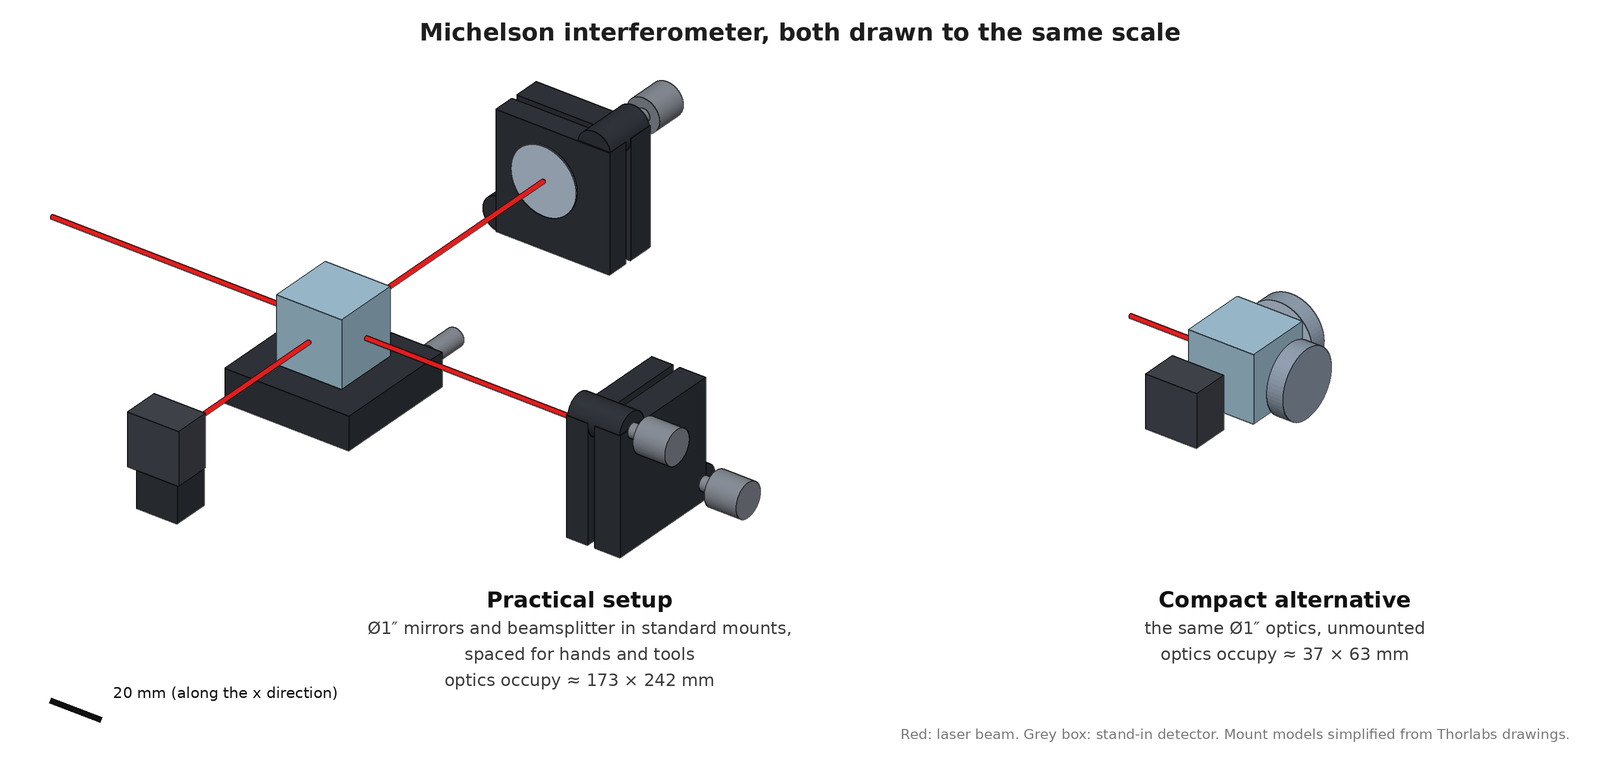
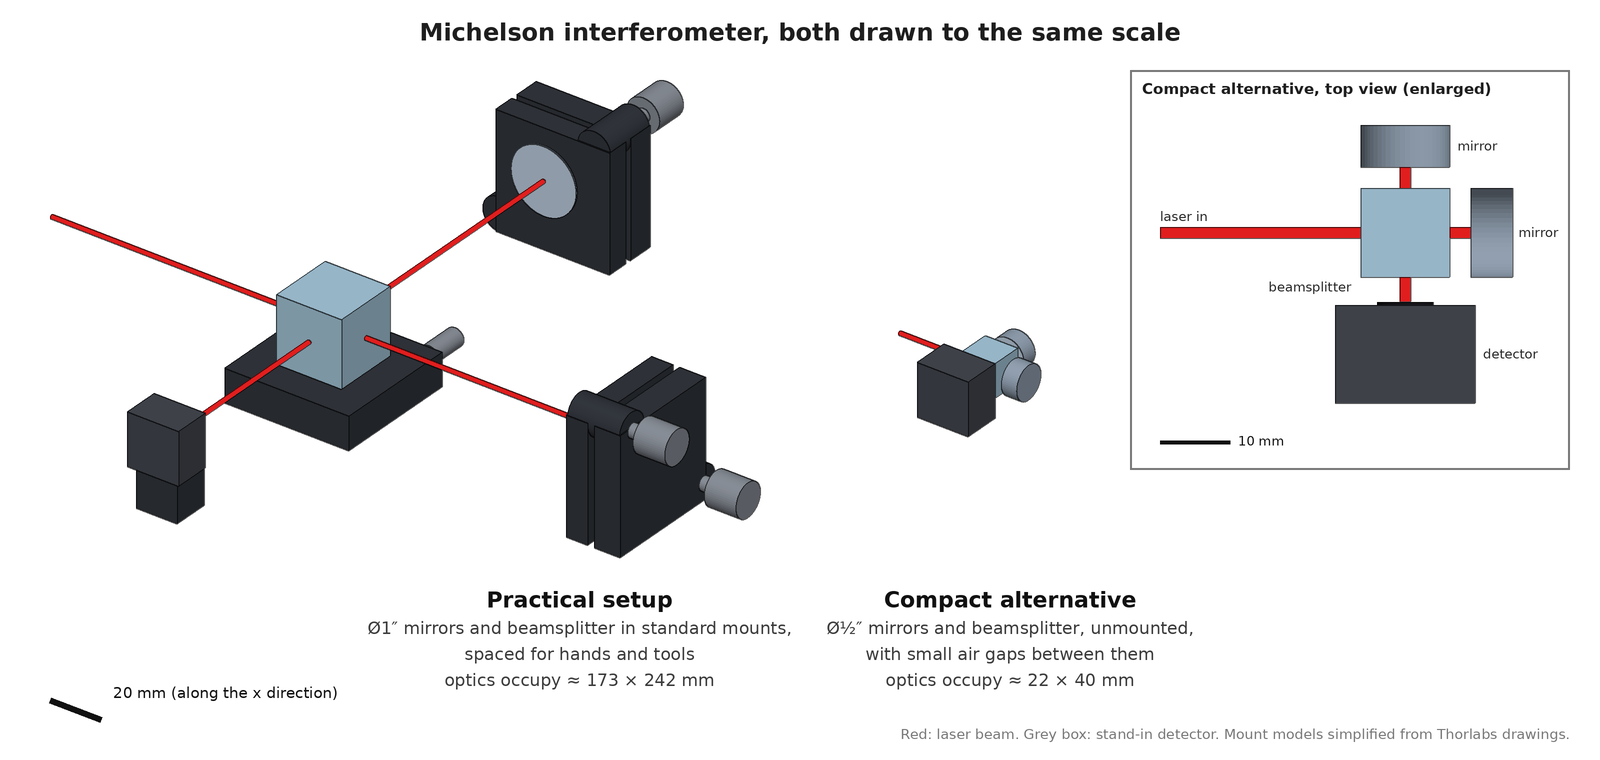
Proposal: half-inch compact interferometer with top-view inset
Claude-Session: https://claude.ai/code/session_01Mx3FBnwCHQgsdWuSz2wbRC

diff --git a/docs/project-proposal.md b/docs/project-proposal.md
@@ -33,13 +33,14 @@ stages) are built in a way that wastes space, time and parts:
    the post, post holder and finger room around it. Simplified models built
    from Thorlabs mechanical drawings.*
 
-   ![To-scale 3D view of a Michelson interferometer: a practical setup with mounted Ø1″ optics next to a compact alternative with the same optics unmounted](figures/interferometer-comparison.png)
+   ![To-scale 3D view of a Michelson interferometer: a practical setup with mounted Ø1″ optics next to a compact alternative with unmounted Ø½″ optics](figures/interferometer-comparison.png)
 
-   *The same Michelson interferometer (beamsplitter cube, two Ø1″ mirrors and
-   a stand-in detector), drawn to scale. Left, the practical setup: every
-   optic in a standard mount, spaced to leave room for hands and tools,
-   occupying about 173 × 242 mm. Right, a compact alternative with the same
-   optics unmounted, about 37 × 63 mm: roughly 18 times less table area.*
+   *A Michelson interferometer (beamsplitter cube, two mirrors and a stand-in
+   detector), both versions drawn to the same scale. Left, the practical
+   setup: Ø1″ optics, each in a standard mount, spaced to leave room for hands
+   and tools, occupying about 173 × 242 mm. Right, a compact alternative with
+   unmounted Ø½″ optics separated by small air gaps (inset: enlarged top
+   view), about 22 × 40 mm: roughly 50 times less table area.*
 2. **They are not fully simulated before parts are placed.** A complete
    calculation (beam propagation through every real catalog part, wave
    effects where coherence matters, sensitivity to every mount error) would

diff --git a/project-proposal.md b/project-proposal.md
@@ -33,13 +33,14 @@ stages) are built in a way that wastes space, time and parts:
    the post, post holder and finger room around it. Simplified models built
    from Thorlabs mechanical drawings.*
 
-   ![To-scale 3D view of a Michelson interferometer: a practical setup with mounted Ø1″ optics next to a compact alternative with the same optics unmounted](figures/interferometer-comparison.png)
+   ![To-scale 3D view of a Michelson interferometer: a practical setup with mounted Ø1″ optics next to a compact alternative with unmounted Ø½″ optics](figures/interferometer-comparison.png)
 
-   *The same Michelson interferometer (beamsplitter cube, two Ø1″ mirrors and
-   a stand-in detector), drawn to scale. Left, the practical setup: every
-   optic in a standard mount, spaced to leave room for hands and tools,
-   occupying about 173 × 242 mm. Right, a compact alternative with the same
-   optics unmounted, about 37 × 63 mm: roughly 18 times less table area.*
+   *A Michelson interferometer (beamsplitter cube, two mirrors and a stand-in
+   detector), both versions drawn to the same scale. Left, the practical
+   setup: Ø1″ optics, each in a standard mount, spaced to leave room for hands
+   and tools, occupying about 173 × 242 mm. Right, a compact alternative with
+   unmounted Ø½″ optics separated by small air gaps (inset: enlarged top
+   view), about 22 × 40 mm: roughly 50 times less table area.*
 2. **They are not fully simulated before parts are placed.** A complete
    calculation (beam propagation through every real catalog part, wave
    effects where coherence matters, sensitivity to every mount error) would
